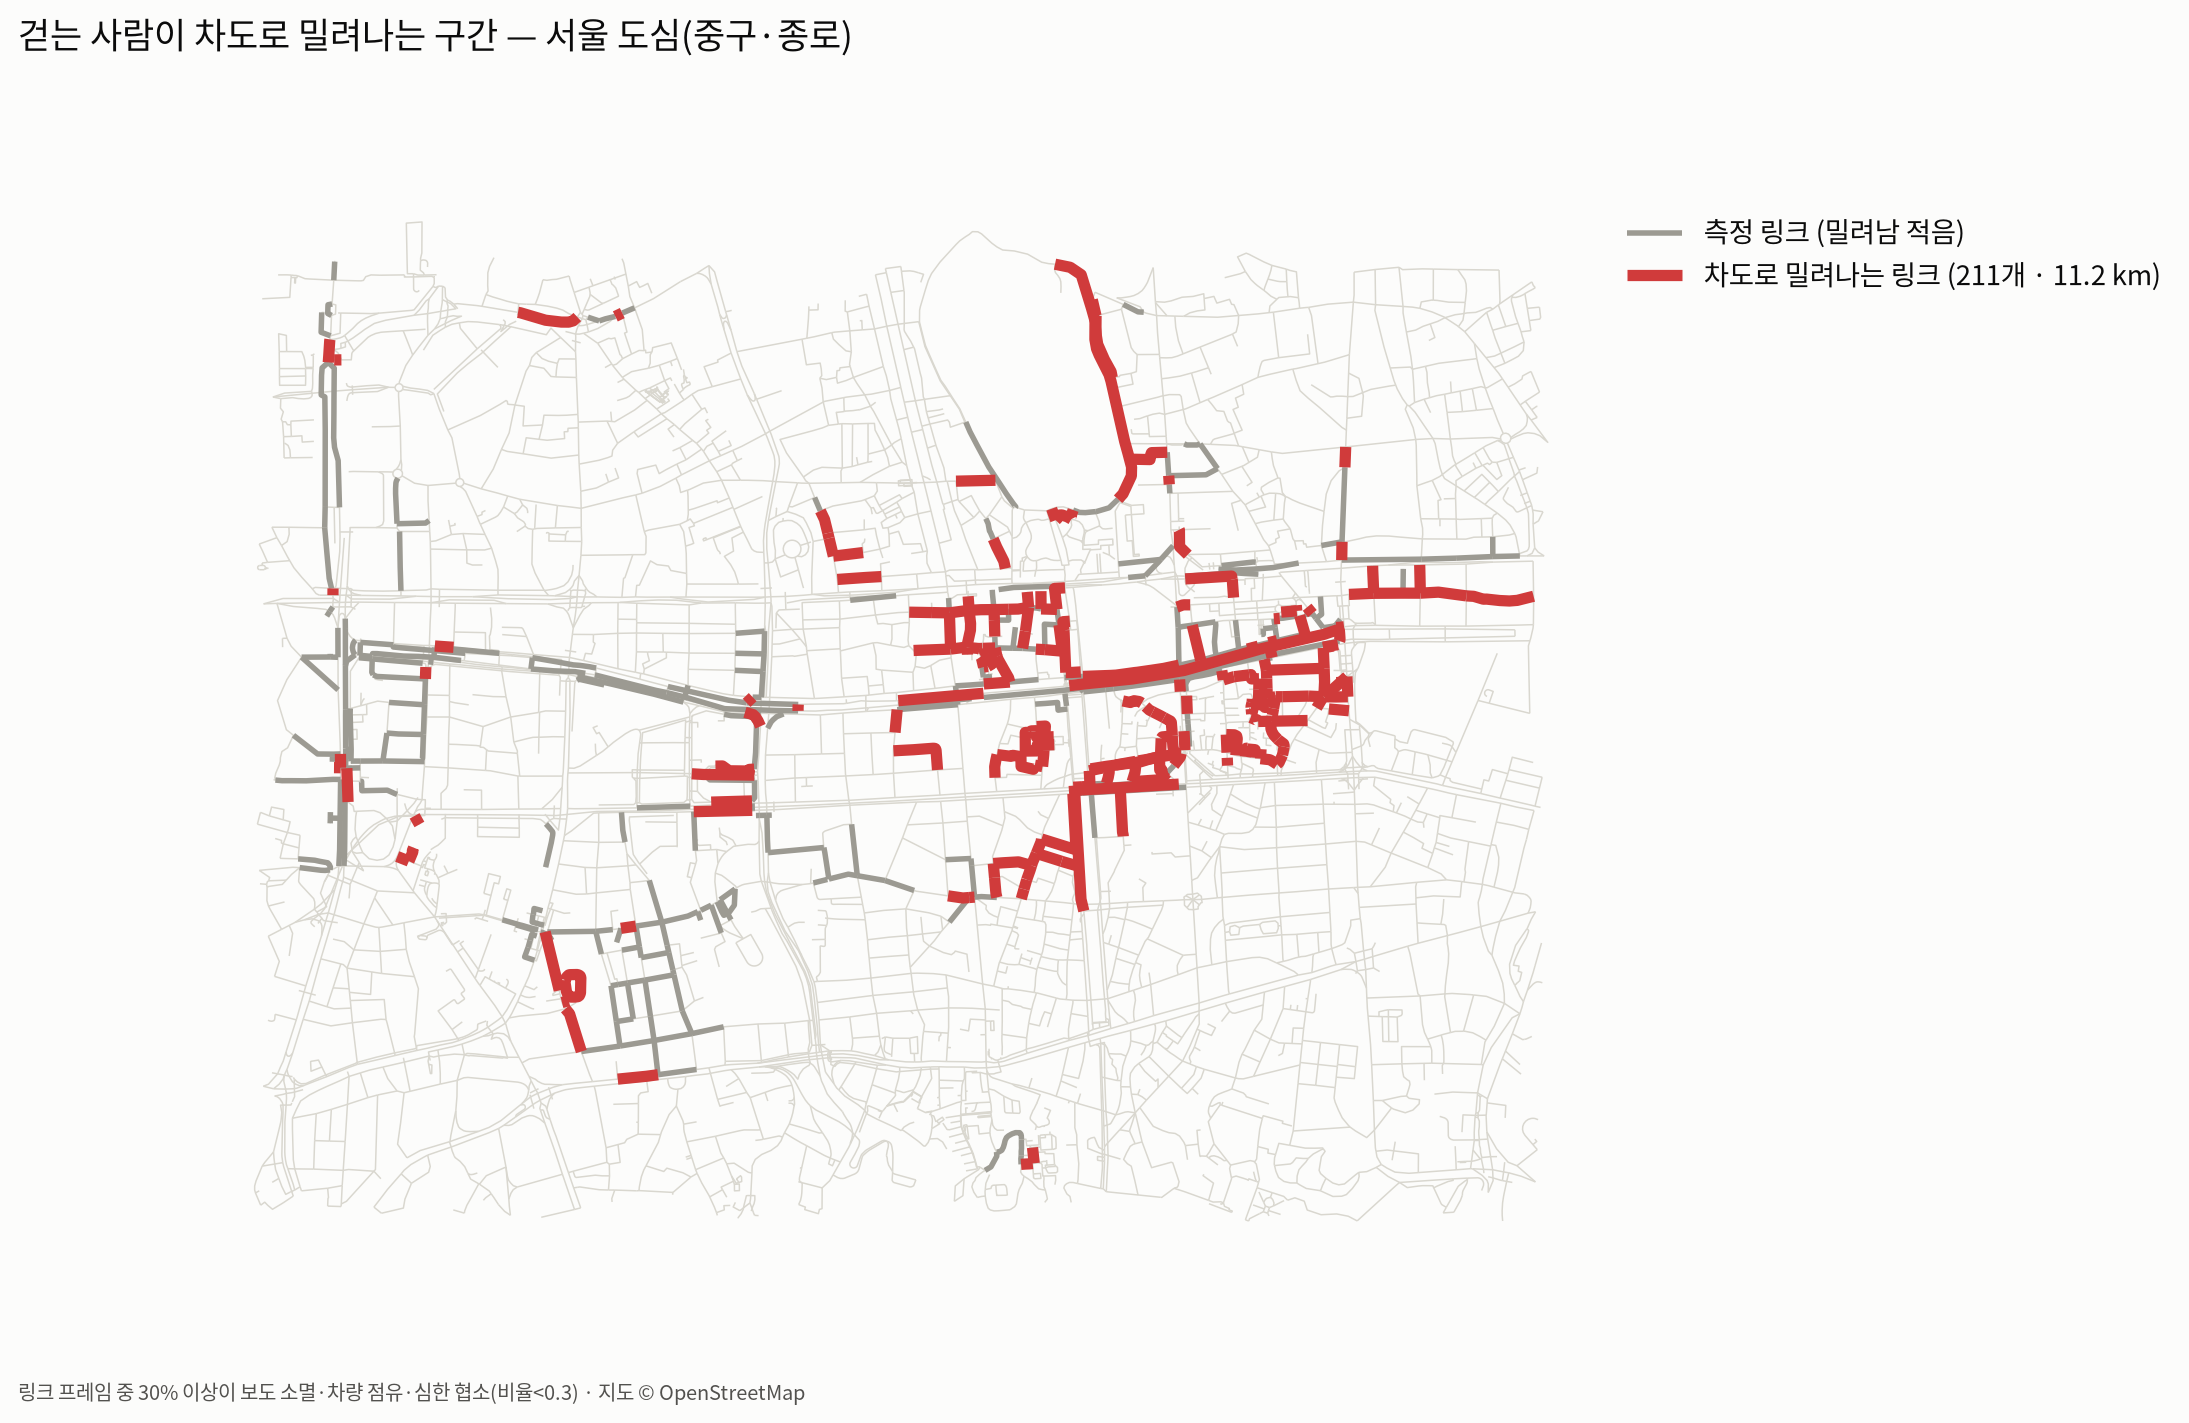
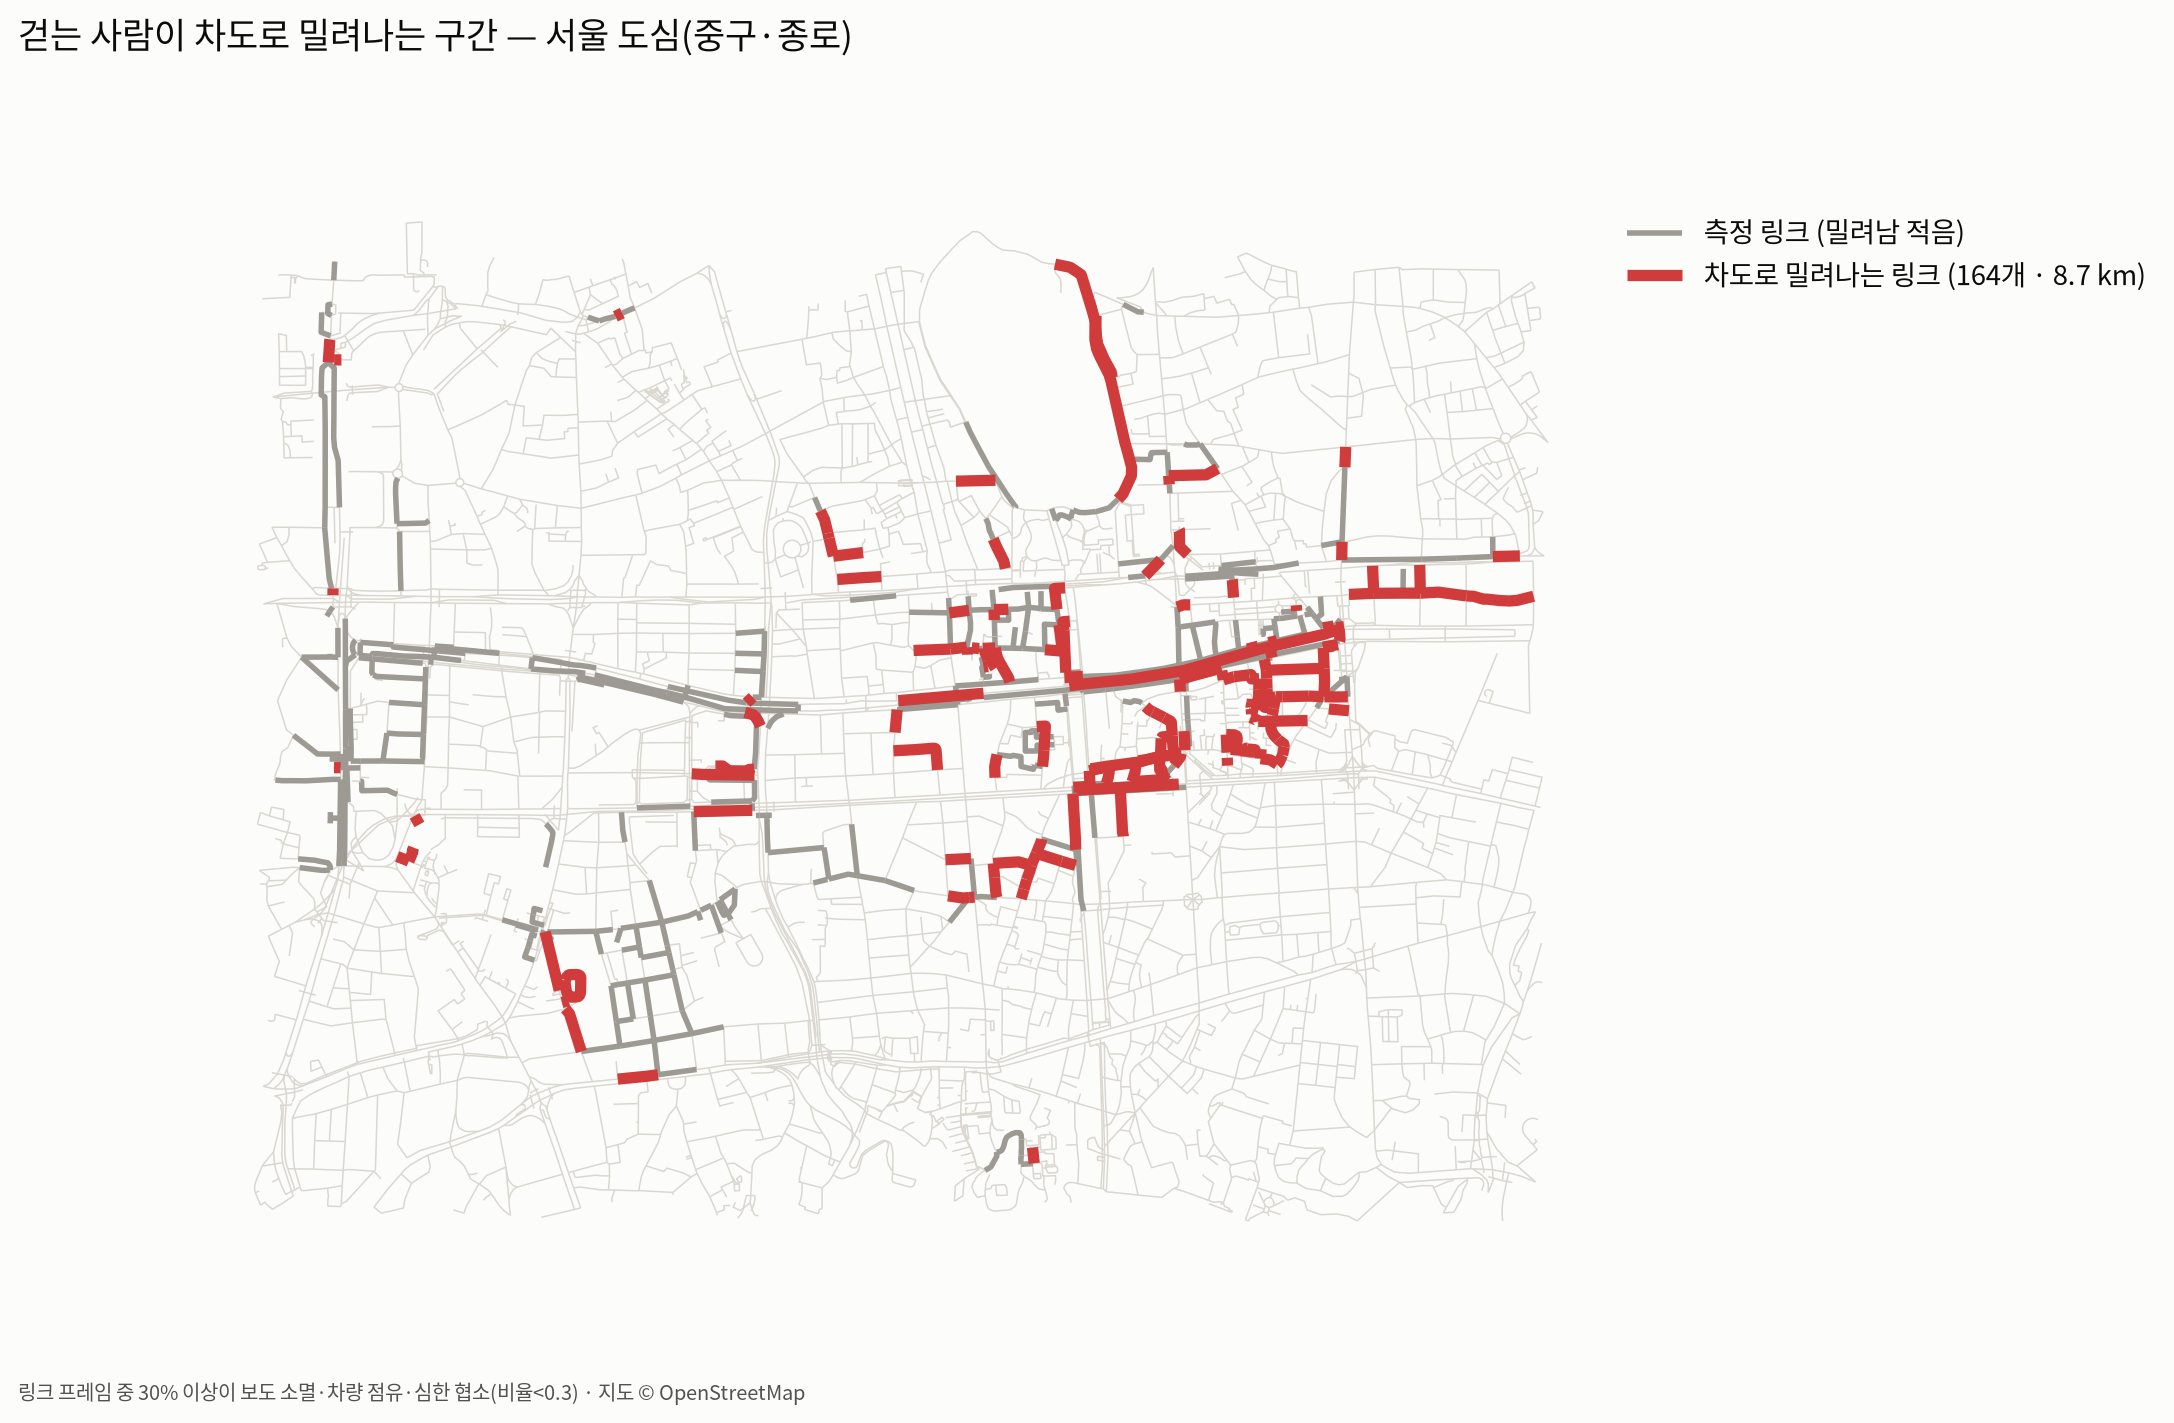
최종 모델(보도면 v1 + 장애물 v2) 반영: 웹앱 재배포(Space 1 GB 한도 → 이력 정리·재생성), 도심 464 링크·밀려나는 구간 164개·8.7 km, 갤러리는 차도·골목 보이는 장면만, README·보고서 갱신

diff --git a/scripts/build_static.py b/scripts/build_static.py
@@ -129,7 +129,7 @@ def build_session(src: Path, out: Path, width: int, base_links: Path | None = No
         p = src / "overlay" / fn
         if p.exists():
             im = Image.open(p).convert("RGB")
-            im.resize((width, round(im.height * width / im.width))).save(od / fn, quality=78)
+            im.resize((width, round(im.height * width / im.width))).save(od / fn, quality=72)
             n += 1
     if (src / "attribution.json").exists():
         shutil.copy2(src / "attribution.json", out / "attribution.json")
@@ -146,7 +146,7 @@ def main(argv: list[str] | None = None) -> None:
     ap.add_argument("--onnx", nargs="+", type=Path, required=True)
     ap.add_argument("--meta", type=Path, default=ROOT / "outputs/onnx/meta.json")
     ap.add_argument("--samples", nargs="*", type=Path, default=[])
-    ap.add_argument("--width", type=int, default=640)
+    ap.add_argument("--width", type=int, default=480)   # HF Space 1 GB 한도
     args = ap.parse_args(argv)
 
     out = args.out

diff --git a/scripts/make_figures.py b/scripts/make_figures.py
@@ -253,7 +253,7 @@ def fig_push(session: Path, links: Path, out: Path, min_frac: float = 0.3) -> di
     def good_view(f) -> bool:
         """대표 사진 조건: 바닥(골목·차도·보도)이 보이고, 장애물(빨강 오버레이)이 화면을 덮지 않음."""
         c = rs[f].get("counts", {})
-        if not any(c.get(k, 0) for k in ("alley", "roadway", "sidewalk")):
+        if not any(c.get(k, 0) for k in ("alley", "roadway")):   # 차도로 밀려나는 장면: 차도·골목이 보여야
             return False
         a = np.asarray(Image.open(session / "overlay" / f).convert("RGB")).astype(int)
         red = ((a[..., 0] > 160) & (a[..., 0] - a[..., 1] > 60) & (a[..., 0] - a[..., 2] > 25)).mean()   # 반투명 섞인 분홍 포함

diff --git a/README.md b/README.md
@@ -4,7 +4,7 @@
 2026 AI 라이프 솔루션 챌린지(산업통상부·KEIT) 출품작 · 아이디어 챌린지 후보작 *RoadPush* 구현.
 
 - **웹앱(테스트 URL)**: https://huggingface.co/spaces/YunSangNam/roadpush — 서버 없는 정적 웹앱, 사진 분석은 브라우저 안에서 실행 *(제출 전까지 비공개)*
-- **대상**: 서울 도심(중구·종로) — 공개 거리 사진(Mapillary, CC BY-SA) 7,559장(360° 변환 포함)의 실제 촬영 위치, **466개 링크 · 28.4 km 측정**
+- **대상**: 서울 도심(중구·종로) — 공개 거리 사진(Mapillary, CC BY-SA) 7,559장(360° 변환 포함)의 실제 촬영 위치, **464개 링크 · 28.3 km 측정**
 - **사용자**: 지자체·도로관리기관 보도 담당자 — 어디부터 단속·정비할지 우선순위
 
 진행 기록 [PROGRESS.md](PROGRESS.md) · 결과 수치 [docs/results.md](docs/results.md) · 계획 [PLAN.md](PLAN.md)
@@ -13,7 +13,7 @@
 
 ## 걷는 사람이 차도로 밀려나는 구간
 
-측정한 466개 링크 중 **211개 · 11.2 km**에서, 링크를 지나는 프레임의 30% 이상이 아래 셋 중 하나였다.
+측정한 464개 링크 중 **164개 · 8.7 km**에서, 링크를 지나는 프레임의 30% 이상이 아래 셋 중 하나였다.
 **보도 없음**(차도·골목으로 합류) · **차량이 보행 공간 점유**(보차 혼용) · **장애물로 막혀 차도로**(유효보행폭 비율 < 0.3).
 
 ![차도로 밀려나는 링크](docs/figures/fig_push_map.png)
@@ -56,12 +56,12 @@
 | 유효보행폭 비율 오차 (같은 150장) | 0.109 | 0.200 | **0.038** |
 | 장애물 mIoU (같은 150장·9종) | 0.518 | 0.373 | **0.701** |
 | 비율 오차 · 보도 소멸 F1 (전체 954장) | – | – | **0.017** · **0.915** |
-| 장애물 mIoU (전체 1,566장) | – | – | **0.736** |
+| 장애물 mIoU (전체 1,566장, 희소 클래스 보강 v2) | – | – | **0.755** |
 
 ![성능 비교](docs/figures/fig_compare.png)
 ![학습 곡선](docs/figures/fig_training.png)
 
-진행 중: SAM 3 의사 라벨로 결측을 채운 통합 모델, 희소 클래스(계단·바리케이드 등) 보강 모델 — 대기열에서 자동 학습·평가 후 더 나은 조합으로 웹앱 재배포.
+실험: SAM 3 의사 라벨 14만 개로 결측을 채운 **통합 단일 모델**은 정확도 −3점(면 0.640·장애물 0.706) 대신 모델 1개로 비용 절반 · **희소 클래스 보강 장애물 v2**는 입간판 +0.07·바리케이드 +0.06으로 채택 · 계단 보강 보도면 v2는 비율 오차가 커져 미채택. 상세 [docs/results.md](docs/results.md).
 
 ## 코드
 
